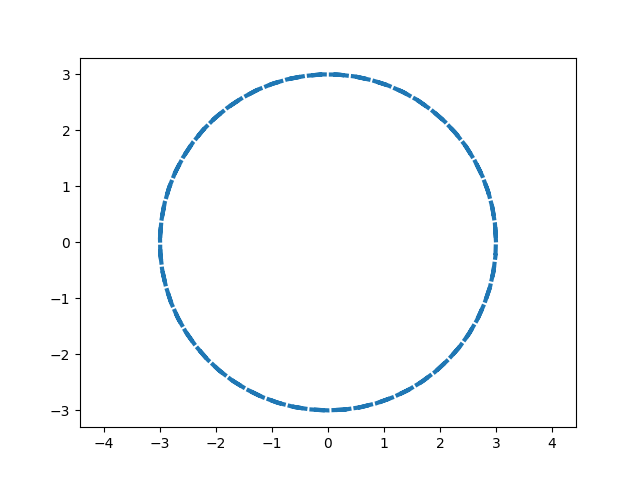
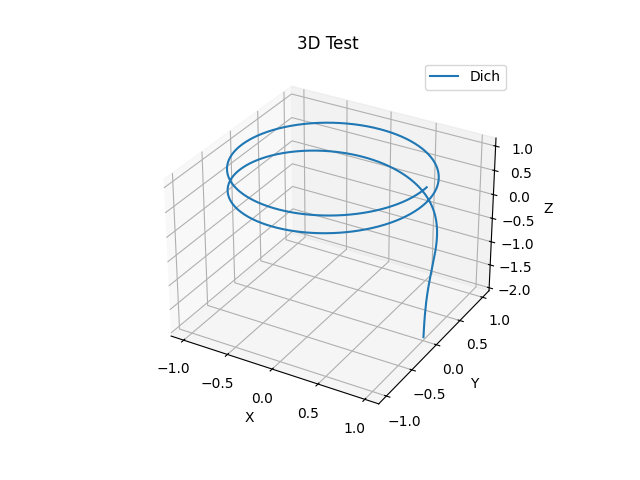
[h[h[h

diff --git a/lab_8.py b/lab_8.py
@@ -1,0 +1,72 @@
+import numpy as np
+import matplotlib.pyplot as plt
+from mpl_toolkits.mplot3d import Axes3D
+
+theta = np.linspace(0, np.pi, 100)
+phi = np.linspace(0, 2*np.pi, 100)
+Theta, Phi = np.meshgrid(theta, phi)
+
+phi_vals = np.linspace(0, 2, 50)
+theta_vals = np.linspace(0, 2*np.pi, 50)
+Phi_par, Theta_par = np.meshgrid(phi_vals, theta_vals)
+
+X_par = Phi_par * np.cos(Theta_par)
+Y_par = Phi_par * np.sin(Theta_par)
+Z_par = Phi_par**2
+
+a, b, c = 1, 1, 1
+X_hyp = a * np.cos(Phi) * np.sinh(Theta)
+Y_hyp = b * np.sin(Phi) * np.sinh(Theta)
+Z_hyp = c * np.sinh(Theta)
+
+h = 0.5
+phi_vals = np.linspace(0, 2, 50)
+theta_vals = np.linspace(0, 4*np.pi, 50)
+Phi_hel, Theta_hel = np.meshgrid(phi_vals, theta_vals)
+
+X_hel = Phi_hel * np.cos(Theta_hel)
+Y_hel = Phi_hel * np.sin(Theta_hel)
+Z_hel = h * Theta_hel
+
+l, m, n = 0.5, 0.5, 1
+def f(theta):
+    return np.sin(theta)
+
+X_con = Phi * np.cos(Theta) + l * f(Theta)
+Y_con = Phi * np.sin(Theta) + m * f(Theta)
+Z_con = n * f(Theta)
+
+fig = plt.figure(figsize=(16, 12))
+
+ax1 = fig.add_subplot(221, projection='3d')
+ax1.plot_surface(X_par, Y_par, Z_par, cmap='viridis', alpha=0.8)
+ax1.set_title('Параболид')
+ax1.set_xlabel('X')
+ax1.set_ylabel('Y')
+ax1.set_zlabel('Z')
+
+ax2 = fig.add_subplot(222, projection='3d')
+ax2.plot_surface(X_hyp, Y_hyp, Z_hyp, cmap='plasma', alpha=0.8)
+ax2.set_title('Гиперболид')
+ax2.set_xlabel('X')
+ax2.set_ylabel('Y')
+ax2.set_zlabel('Z')
+
+ax3 = fig.add_subplot(223, projection='3d')
+ax3.plot_surface(X_hel, Y_hel, Z_hel, cmap='coolwarm', alpha=0.8)
+ax3.set_title('Геликоид')
+ax3.set_xlabel('X')
+ax3.set_ylabel('Y')
+ax3.set_zlabel('Z')
+
+ax4 = fig.add_subplot(224, projection='3d')
+ax4.plot_surface(X_con, Y_con, Z_con, cmap='summer', alpha=0.8)
+ax4.set_title('Коноид (f(θ) = sin θ)')
+ax4.set_xlabel('X')
+ax4.set_ylabel('Y')
+ax4.set_zlabel('Z')
+
+plt.tight_layout()
+plt.show()
+
+plt.savefig('figures.png',)

diff --git a/lec_3danimation.py b/lec_3danimation.py
@@ -1,0 +1,42 @@
+import numpy as np
+import matplotlib.pyplot as plt
+import imageio
+import os
+ 
+fig, ax = plt.subplots(subplot_kw={"projection": "3d"})
+ 
+N = 100
+edge = 10
+phi = np.linspace(0, 2*np.pi, 100)
+theta = np.linspace(0, np.pi, 100)
+ 
+def animate(R):
+
+    x = R * np.outer(np.sin(phi), np.cos(theta))
+    y = R * np.outer(np.sin(phi), np.sin(theta))
+    z = R * np.outer(np.cos(phi), np.ones(np.size(theta)))
+    return x, y, z
+ 
+for i in range(N):
+ 
+  ax.set_xlim3d([-edge, edge])
+  ax.set_xlabel('X')
+ 
+  ax.set_ylim3d([-edge, edge])
+  ax.set_ylabel('Y')
+
+  ax.set_zlim3d([-edge, edge])
+  ax.set_zlabel('Z')
+ 
+  x = animate(edge/N*i)[0]
+  y = animate(edge/N*i)[1]
+  z = animate(edge/N*i)[2]
+  ax.plot_surface(x, y, z, color='b')
+  plt.savefig(f'pic_{i}')
+
+  images = []
+filenames = [f'pic_{i}.png' for i in range(N)]
+for filename in filenames:
+  images.append(imageio.imread(filename))
+  os.remove(filename)
+imageio.mimsave('movie.gif', images)

diff --git a/lec_2d.py b/lec_2d.py
@@ -1,0 +1,16 @@
+import numpy as np
+import matplotlib.pyplot as plt
+
+fig, ax = plt.subplots(subplot_kw={"projection": "3d"})
+
+phi = np.linspace(0, 2*np.pi, 100)
+theta = np.linspace(0, np.pi, 100)
+R = 5
+
+x = R * np.outer(np.cos(phi), np.sin(theta))
+y = R * np.outer(np.sin(phi), np.sin(theta))
+z = R * np.outer(np.ones(np.size(phi)), np.cos(theta))
+ 
+ax.plot_surface(x, y, z)
+ 
+plt.savefig('fig_6.png')

diff --git a/les_7_animation.py b/les_7_animation.py
@@ -1,0 +1,23 @@
+import numpy as np
+import matplotlib.pyplot as plt
+
+fig, ax = plt.subplots(subplot_kw={"projection": "3d"})
+
+t = np.arange(0.01, 4*np.pi, 0.01)
+R = 1
+
+x = R * np.cos(t)
+y= R * np.sin(t)
+z = R * np.log10(t)
+
+ax.plot(x, y, z, label='Dich')
+
+ax.legend()
+	
+ax.set_xlabel('X')
+ax.set_ylabel('Y')
+ax.set_zlabel('Z')
+
+ax.set_title('3D Test')
+ 
+plt.savefig('fig_1.png')
